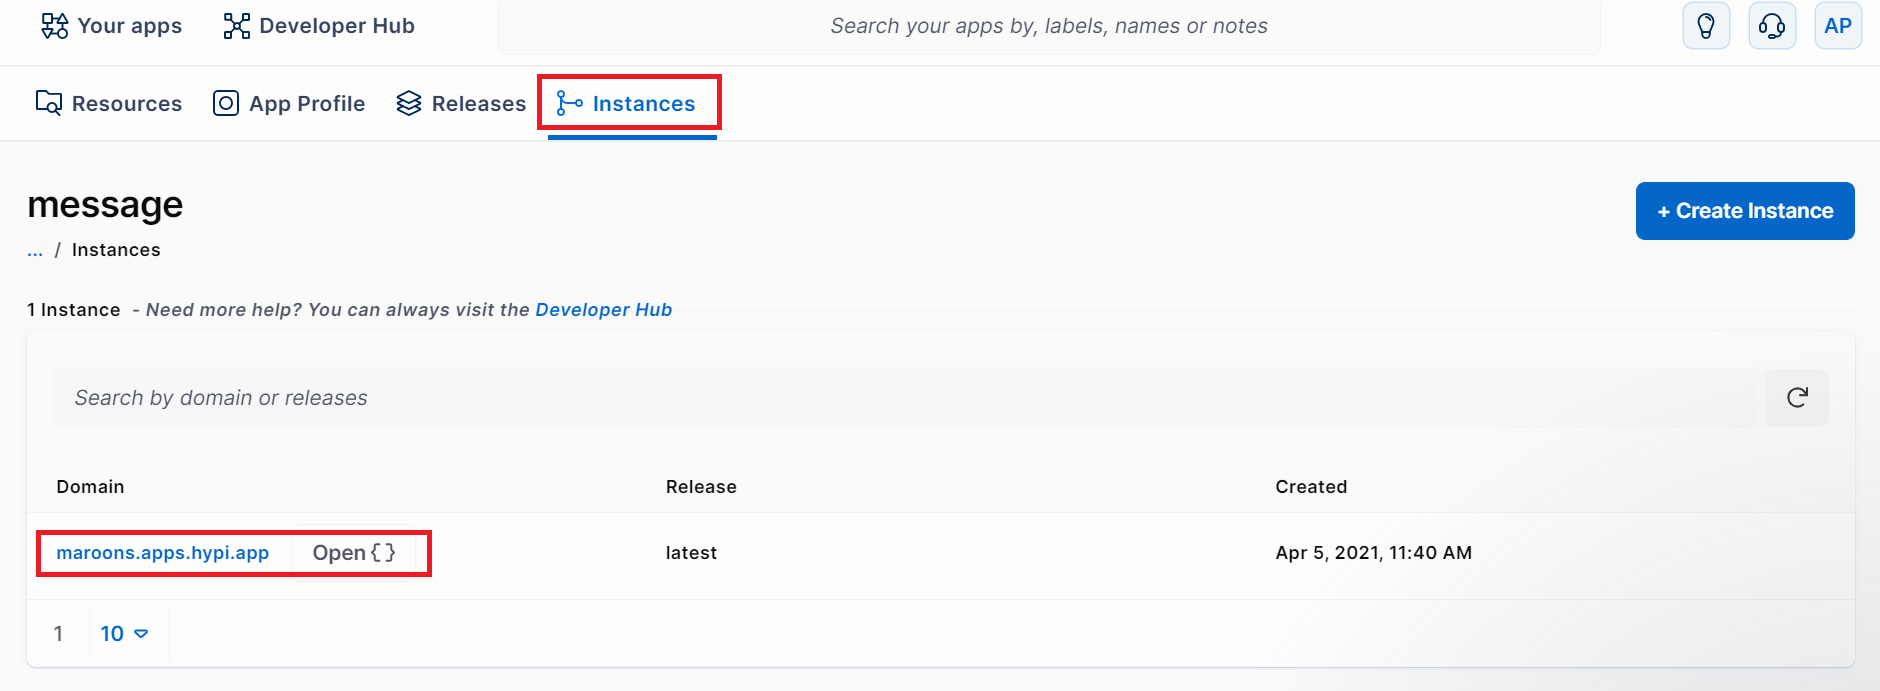
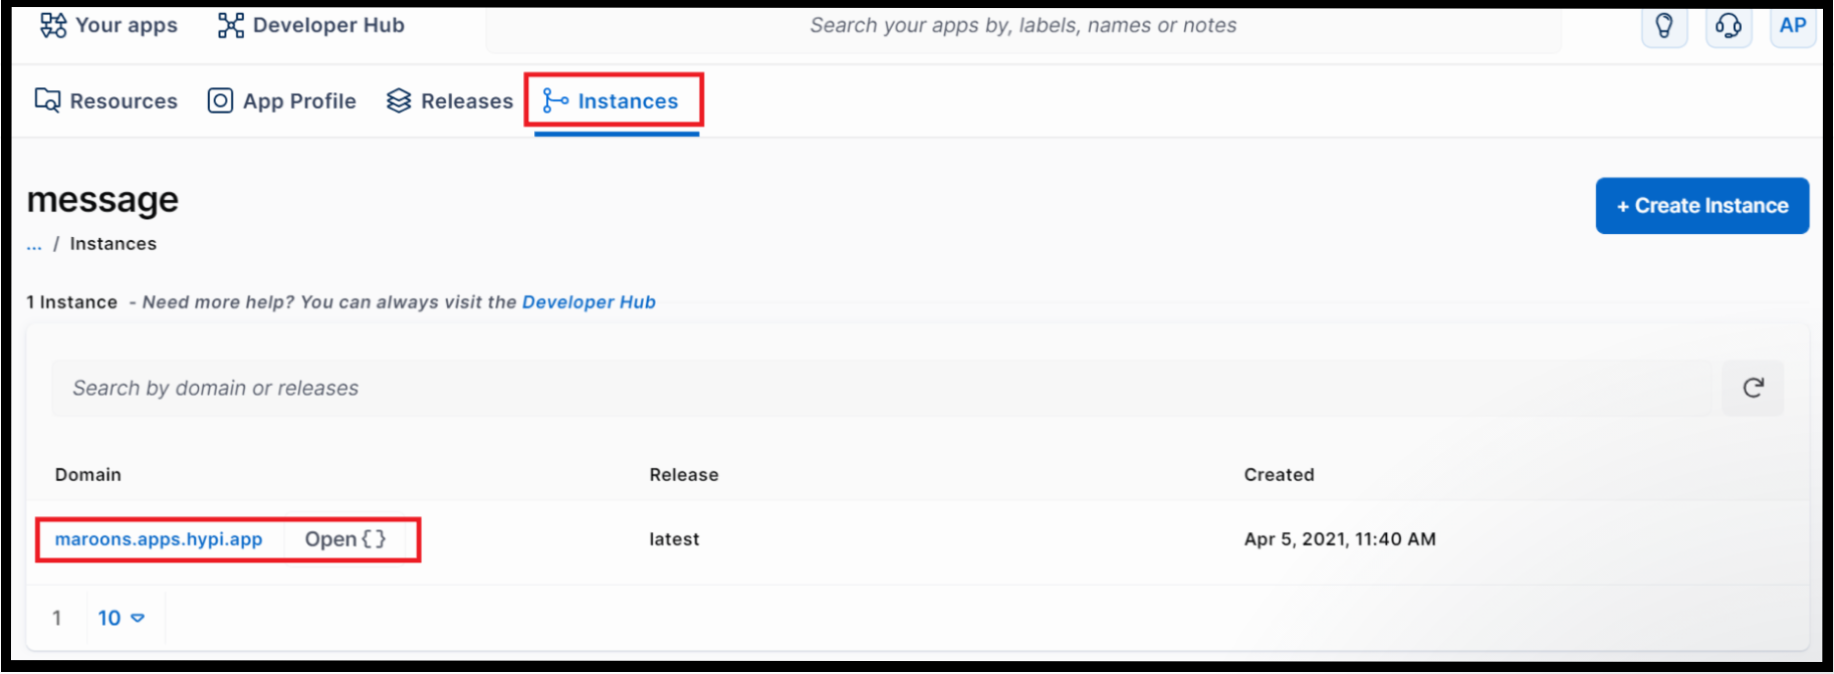
added borders to images. GraphQL moved up in the sidebar

diff --git a/sidebars.js b/sidebars.js
@@ -19,19 +19,20 @@ module.exports = {
       label: 'API & References',
       items: ['api-references','apisetup','authentication','arcql','hypiobject','crud','createdata','updatedata','readdata','deletedata','references','authorisation','apigateway','aggregation','mathsapi','userdefinedfunctions','workflow','triggers','webhooks','serverlessfunction','fileupload','rest-apis','oauth2login','password-reminder'],
     },
+    {
+      type: 'category',
+      label: 'GraphQL',
+      items: ['graphql', 'gql-introduction', 'gql-schema-types','gql-queries','gql-mutations','gql-directives','gql-interfaces'],
+    },
     'hypi-angular',
     {
       type: 'category',
       label: 'Tutorial',
       items: [
 	'tutorials',
-	'graphql',
-        {
-	  'GraphQL Features': ['gql-introduction','gql-schema-types','gql-queries','gql-mutations','gql-directives','gql-interfaces'],
-	},
 	'gql-crud-tutorial',
 	'time-series-aggregations',
-	], //GraphQL, ArcQL
+	], 
     },
     {
       type: 'category',

diff --git a/content/ui-create-app.md b/content/ui-create-app.md
@@ -6,28 +6,41 @@ slug: /ui-create-app
 ---
 1. Register on [https://hypi.io/](https://hypi.io/) using an email id.
 
+
 ![AppRegistration](/img/UI-CreateApp-Registration-1.PNG) 
+
 
 2. You may create an account using `Gmail/Github/Facebook` account.
 
+
 ![AppRegistration](/img/UI-CreateApp-Registration-2.PNG)
+
 
 3. Hypi is an App-based account. `App` is the building block that you will deploy in your application. Know more about App [here](overview.md). Create an app using the `Create an App` or  `+New App` button.
 
+
 ![CreateApp](/img/UI-CreateApp-CreateNewApp-1.PNG)
+
 
 4. Enter the App name that suits the functionality you are going to implement. (Four characters minimum). There is an option to create a new release and API instance automatically.
 
+
 ![CreateApp](/img/UI-CreateApp-CreateNewApp-2.PNG)
+
 
 5. If you choose to automatically create a release and an instance, a release with the name `latest` will get created under the tab `Releases`.
 
+
 ![CreateApp](/img/UI-CreateApp-CreateNewApp-3.PNG)
+
 
 6. An instance will get created under the tab `Instances`.
 
+
 ![CreateApp](/img/UI-CreateApp-CreateNewApp-4.PNG)
 
+
 7. An App ID gets generated automatically after the creation of the App. You may see the `App's id` under App Profile. You may copy the App ID from here.
+
 
 ![CreateApp](/img/UI-CreateApp-CreateNewApp-5.PNG)

diff --git a/content/tutorials.md b/content/tutorials.md
@@ -7,9 +7,8 @@ slug: /tutorials
 
 Tutorials are written to guide you to achieve a specific task with the Hypi platform.
 
-Tutorial section contains some of the features of GraphQL language. GraphQL is the query language for Hypi. So, do check out tutorials to understand basic GraphQL concepts...
+Do check out below tutorials to understand basic functionalities provided by Hypi...
 
-+ [GraphQL Features](graphql.md)
 + [Hypi GraphQL CRUD Tutorial](gql-crud-tutorial.md) 
 + [Timeseries Aggregations with Date Granularity](time-series-aggregations.md)
 

diff --git a/content/graphql.md b/content/graphql.md
@@ -1,7 +1,7 @@
 ---
 id: graphql
-title: GraphQL 
-sidebar_label: GraphQL 
+title: GraphQL Overview
+sidebar_label: GraphQL Overview
 slug: /graphql
 ---
 
